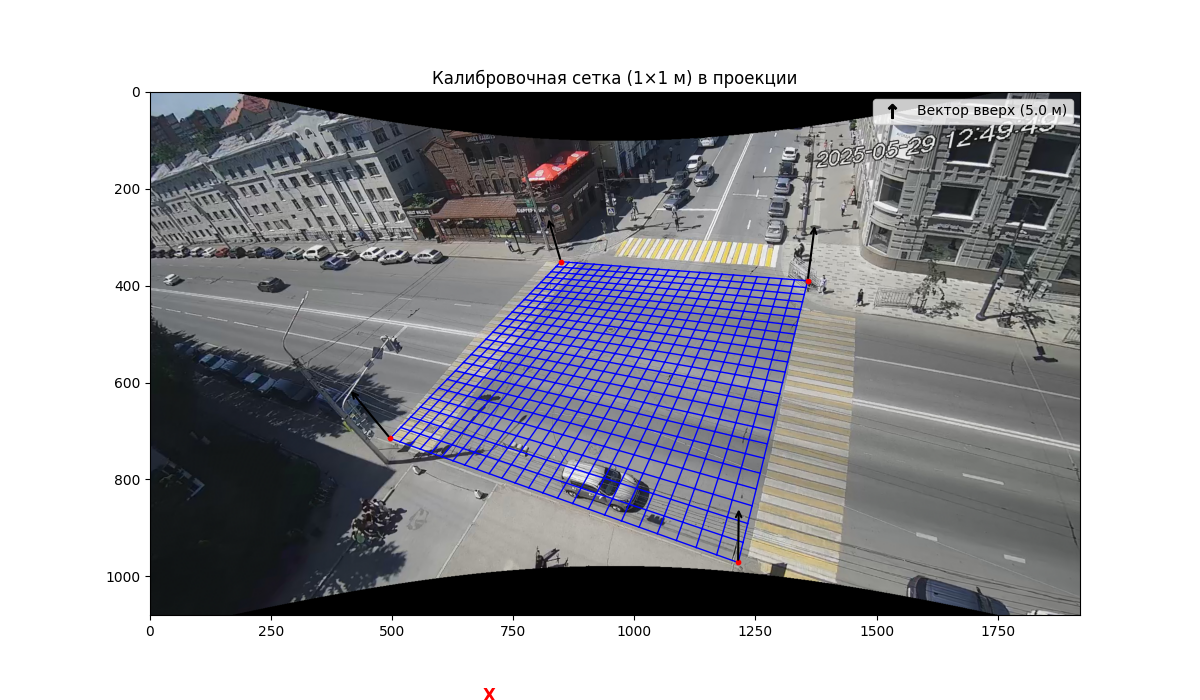
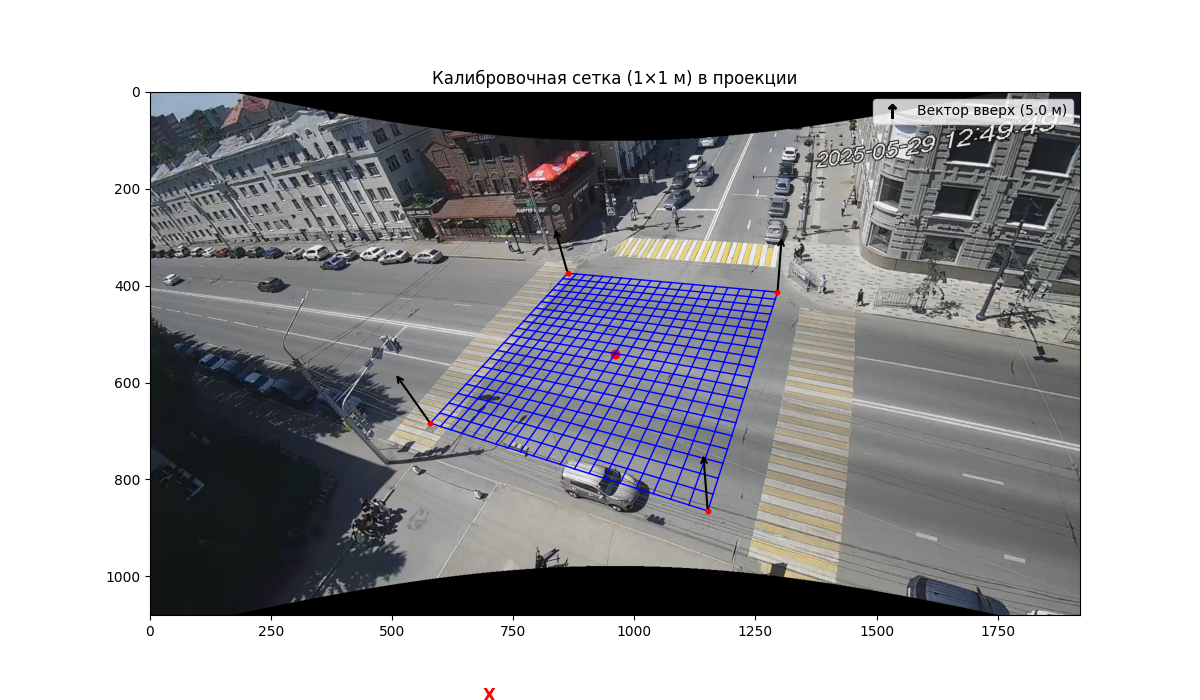
Тесты дооптимизатора для углов

Changed region(s): [[0.3083, 0.33, 0.6783, 0.81], [0.4317, 0.39, 0.4625, 0.45], [0.4008, 0.45, 0.4317, 0.51]]

diff --git a/example/karls_marks/example.py b/example/karls_marks/example.py
@@ -1,6 +1,8 @@
+import matplotlib.pyplot as plt
+
 from source import CalibrationPipeline, Camera, VanishingPointCalibration, \
-    RefineOptimizer
-from source.utils import load_lines, load_lines_from_json
+    RefineOptimizer, PointND
+from source.calibration.utils import load_lines, load_lines_from_json, extract_direction_vectors_from_lines
 from calibration.refine import residual_interline_distance, residual_parallel_group, \
     residual_reprojection_line
 from calibration.debug import load_scene_gps, visualize_source
@@ -53,7 +55,7 @@ data = {
     "dist_between_line_4": load_lines('marked/dist_ between_line_4.json'),
 }
 
-resualds_blocks = [
+resualds_blocks_first = [
     lambda cam, data: residual_interline_distance(cam, data, group="dist_between_line_1", expected=11.5),
     lambda cam, data: residual_interline_distance(cam, data, group="dist_between_line_2", expected=4),
     lambda cam, data: residual_interline_distance(cam, data, group="dist_between_line_3", expected=4),
@@ -61,11 +63,102 @@ resualds_blocks = [
 ]
 
 refiner_first = RefineOptimizer(camera=camera,
-                                    residual_blocks=resualds_blocks,
-                                    mask=[0, 6],
-                                    bounds=([800, 5], [2000, 30]),
-                                    debug_save_path='image/',
-                                    )
+                                residual_blocks=resualds_blocks_first,
+                                mask=[0, 6],
+                                bounds=([800, 5], [2000, 30]),
+                                # debug_save_path='image/',
+                                )
 
+resualds_blocks_second = [
+]
+
+refiner_second = RefineOptimizer(camera=camera,
+                                 residual_blocks=resualds_blocks_second,
+                                 mask=[1, 2, 3],
+                                 bounds=([-20, 40, -180], [-5, 60, -150]),
+                                 )
 pipeline = CalibrationPipeline([vp_init, refiner_first])
 camera = pipeline.run(camera, data)
+
+
+from scipy.spatial.transform import Rotation as R
+from scipy.optimize import minimize
+import numpy as np
+
+# === LOSS-компоненты ===
+
+def loss_vertical_alignment(omega, R0, K, lines_img):
+    delta_R = R.from_rotvec(omega).as_matrix()
+    R_corr = delta_R @ R0
+    z_world = np.array([0, 0, 1])
+
+    loss = 0.0
+    for line_dir in lines_img:
+        line_dir = line_dir / np.linalg.norm(line_dir)
+        v_cam = R_corr @ z_world
+        v_img = K @ v_cam
+        v_img = v_img[:2] / v_img[2]
+        v_img = v_img / np.linalg.norm(v_img)
+        cos_theta = np.dot(v_img, line_dir)
+        loss += 1 - cos_theta ** 2
+    return loss
+
+def loss_planar_alignment(omega, R0, K, planar_lines_img):
+    delta_R = R.from_rotvec(omega).as_matrix()
+    R_corr = delta_R @ R0
+    K_inv = np.linalg.inv(K)
+
+    total_loss = 0.0
+    for line_dir in planar_lines_img:
+        line_dir = line_dir / np.linalg.norm(line_dir)
+        dir_img_h = np.array([line_dir[0], line_dir[1], 1.0])
+        dir_cam = K_inv @ dir_img_h
+        dir_cam = dir_cam / np.linalg.norm(dir_cam)
+        dir_world = R_corr.T @ dir_cam
+        z_component = dir_world[2]
+        total_loss += z_component ** 2
+    return total_loss
+
+# === Общий функционал ===
+
+def total_loss(omega, R0, K, verticals=None, planar_lines=None, weights=(1.0, 1.0, 10.0)):
+    lambda_vert, lambda_planar, lambda_reg = weights
+    loss = 0.0
+
+    if verticals:
+        loss += lambda_vert * loss_vertical_alignment(omega, R0, K, verticals)
+    if planar_lines:
+        loss += lambda_planar * loss_planar_alignment(omega, R0, K, planar_lines)
+
+    loss += lambda_reg * np.sum(omega ** 2)
+    return loss
+
+# === Данные ===
+K = camera.intrinsics.get()
+params = camera.get_params()
+
+angles = params[1:4]
+R0 = R.from_euler('zyx', angles, degrees=True).as_matrix()
+
+lines_vertical = extract_direction_vectors_from_lines(load_lines('marked/vertical_lines.json'))
+lines_horison = extract_direction_vectors_from_lines(load_lines('marked/horizontal_lines.json'))
+
+initial_omega = np.zeros(3)
+res = minimize(
+    total_loss,
+    initial_omega,
+    args=(R0, K, lines_vertical, lines_horison, (0.5, 1.0, 10.0)),
+    method='BFGS'
+)
+
+omega_opt = res.x
+R_opt = R.from_rotvec(omega_opt).as_matrix() @ R0
+euler_opt = R.from_matrix(R_opt).as_euler('zyx', degrees=True)
+
+print(omega_opt, euler_opt)
+
+camera.extrinsics.set_rotation(euler_opt)
+
+from calibration.debug import visualize_grid_debug, visualize_grid_gps_debug
+point_start = PointND(camera.intrinsics.get_main_point(), add_weight=True)
+visualize_grid_debug(camera, point_start ,grid_range=10)

diff --git a/source/distortion/cpp/hough.cpp b/source/distortion/cpp/hough.cpp
@@ -31,16 +31,25 @@ py::array_t<float> hough_transform_with_orientation(
 
     for (int y = 0; y < height; y++) {
         for (int x = 0; x < width; x++) {
+            int window = 3;  // сколько шагов вокруг ориентации
             if (buf_edges(y, x)) {
-                float theta = buf_orient(y, x);
-                for (int t = 0; t < num_thetas; t++) {
+                float ori_rad = buf_orient(y, x);
+                float ori_deg = ori_rad * 180.0f / M_PI;
+                int t_center = static_cast<int>(ori_deg / angle_resolution_deg);
+
+                for (int dt = -window; dt <= window; dt++) {
+                    int t = t_center + dt;
+                    if (t < 0 || t >= num_thetas) continue;
+
                     double angle = t * angle_resolution_deg * deg2rad;
                     double rho = x * std::cos(angle) + y * std::sin(angle);
                     int r_idx = static_cast<int>((rho + diag_len) / rho_resolution);
+
                     if (r_idx >= 0 && r_idx < num_rhos)
                         acc(r_idx, t) += 1.0f;
                 }
             }
+
         }
     }
 

diff --git a/source/__init__.py b/source/__init__.py
@@ -1,14 +1,25 @@
+"""
+calibration_toolkit
+~~~~~~~~~~~~~~~~~~~~
+
+Библиотека для калибровки камеры на основе точек схода, структурных ограничений сцены
+и дооптимизации ориентации. Поддерживает ручную, автоматическую и геометрическую настройку.
+"""
+
 from .calibration import CalibrationPipeline
 from .calibration import RefineOptimizer
-from .core import Camera
+from .core import Camera, PointND
 from .calibration import VanishingPointCalibration
 
 __all__ = [
     "CalibrationPipeline",
     "RefineOptimizer",
     "Camera",
-    "VanishingPointCalibration"
+    "VanishingPointCalibration",
+    "PointND",
 ]
 
-__version__ = "0.1.0"
-__author__ = "Акмурзин Миша"
+__version__ = "0.2.0"
+__author__ = "Акмурзин Михаил"
+__email__ = "akmurzinmihail@gmail.com"
+__description__ = "Модуль для калибровки камеры и дооптимизации параметров по точкам схода и структуре сцены."

diff --git a/source/distortion/manual_line_distortion_correction.py b/source/distortion/manual_line_distortion_correction.py
@@ -6,7 +6,9 @@ from core import Camera
 
 
 def undistort_image(image, K, dist_coeffs):
-    return cv2.undistort(image, K, dist_coeffs)
+    h, w = image.shape[:2]
+    new_K, _ = cv2.getOptimalNewCameraMatrix(K, dist_coeffs, (w, h), alpha=1.0)
+    return cv2.undistort(image, K, dist_coeffs, None, K)
 
 
 def undistort_point(point, K, dist_coeffs):
@@ -89,11 +91,11 @@ image = undistort_image(camera.get_image(), K, np.array([k1_opt, k2_opt, 0, 0, 0
 import matplotlib.pyplot as plt
 
 # Получаем выпрямленное изображение
-image = undistort_image(
-    camera.get_image(),
-    K,
-    np.array([k1_opt, k2_opt, 0, 0, 0], dtype=np.float32)
-)
-
-image_bgr = cv2.cvtColor(image, cv2.COLOR_RGB2BGR)
-cv2.imwrite("../../example/pushkin_aksakov/image/undistort_opencv.png", image_bgr)
+# image = undistort_image(
+#     camera.get_image(),
+#     K,
+#     np.array([k1_opt, k2_opt, 0, 0, 0], dtype=np.float32)
+# )
+#
+# image_bgr = cv2.cvtColor(image, cv2.COLOR_RGB2BGR)
+# cv2.imwrite("../../example/pushkin_aksakov/image/undistort_opencv.png", image_bgr)

diff --git a/source/calibration/utils/data_preparation.py b/source/calibration/utils/data_preparation.py
@@ -91,3 +91,18 @@ def load_lines_from_json(filepath: str):
         lines.append(line)
 
     return lines
+
+def extract_direction_vectors_from_lines(lines):
+    """
+    Преобразует список линий, заданных парами точек [(x1, y1), (x2, y2)],
+    в нормированные направляющие векторы [dx, dy].
+    """
+    direction_vectors = []
+    for (x1, y1), (x2, y2) in lines:
+        dx = x2 - x1
+        dy = y2 - y1
+        direction = np.array([dx, dy], dtype=np.float64)
+        norm = np.linalg.norm(direction)
+        if norm > 1e-6:  # проверка на нулевую длину
+            direction_vectors.append(direction / norm)
+    return direction_vectors

diff --git a/source/calibration/refine/optimizer.py b/source/calibration/refine/optimizer.py
@@ -77,7 +77,7 @@ class RefineOptimizer(Calibration):
         if self.debug_save_path is not None:
             from calibration.debug import visualize_grid_debug, visualize_grid_gps_debug
             point_start = PointND(self.camera.intrinsics.get_main_point(), add_weight=True)
-            visualize_grid_debug(self.camera, point_start, save_path=self.debug_save_path + "grid.png")
+            visualize_grid_debug(self.camera, point_start, save_path=self.debug_save_path + "grid.png",grid_range=10)
             # visualize_grid_gps_debug(self.camera, point_start, gps_origin=self.gps_origin)
             if self.gps_origin is not None:
                 pass

diff --git a/source/calibration/debug/debug_scene.py b/source/calibration/debug/debug_scene.py
@@ -7,7 +7,7 @@ from PIL import Image
 from io import BytesIO
 
 from core import Camera, PointND
-from utils import enu_to_gps
+from calibration.utils import enu_to_gps
 
 
 def visualize_grid_debug(
@@ -28,6 +28,7 @@ def visualize_grid_debug(
     ax.set_ylim(height, 0)
     plt.imshow(image)
 
+    plt.scatter(*point_start.get(),c='red')
     anchor_3D = camera.project_back(point_start, plane_z=plane_z)
     anchor_x, anchor_y, anchor_z = anchor_3D.get()
 

diff --git a/source/utils/clicked_curver.py b/source/utils/clicked_curver.py
@@ -97,7 +97,7 @@ while True:
     if key == 27:
         break
     elif key == ord("s"):
-        np.save("clicked_curves.npy", np.array(curves, dtype=object))
+        np.save("../distortion/clicked_curves.npy", np.array(curves, dtype=object))
         print("Сохранено в 'clicked_curves.npy'")
     elif key == ord("c"):
         curves.clear()

diff --git a/source/calibration/debug/debug_source.py b/source/calibration/debug/debug_source.py
@@ -1,7 +1,7 @@
 import matplotlib.pyplot as plt
 import matplotlib.cm as cm
 import hashlib
-
+import numpy as np
 
 def visualize_source(data: dict, image=None):
     """
@@ -38,3 +38,4 @@ def get_color_by_key(key):
     cmap = cm.get_cmap('tab10')
     hash_val = int(hashlib.md5(key.encode()).hexdigest(), 16)
     return cmap(hash_val % 10)
+

diff --git a/source/utils/__init__.py b/source/utils/__init__.py
@@ -1,11 +1,5 @@
-from .data_preparation import load_lines, load_lines_from_json
 from .data_markup_tool import LineAnnotationTool
-from .gps_connection_world import gps_to_enu, enu_to_gps
 
 __all__ = [
-    "load_lines",
     "LineAnnotationTool",
-    "gps_to_enu",
-    "enu_to_gps",
-    "load_lines_from_json"
 ]

diff --git a/example/pushkin_aksakov/old/example_back.py b/example/pushkin_aksakov/old/example_back.py
@@ -1,5 +1,5 @@
 from core.camera_model import Camera
-from source.utils.data_preparation import load_data, prep_data_parallel
+from calibration.utils.data_preparation import load_data, prep_data_parallel
 from calibration.refine.back.back_optimization import BackProjectionOptimizer
 
 import numpy as np

diff --git a/source/calibration/refine/direct_error_funk.py b/source/calibration/refine/direct_error_funk.py
@@ -1,7 +1,7 @@
 import numpy as np
 
 from core import Camera, PointND
-from utils import gps_to_enu
+from calibration.utils import gps_to_enu
 
 
 def residual_reprojection_line(camera, data, group, gps_origin):
